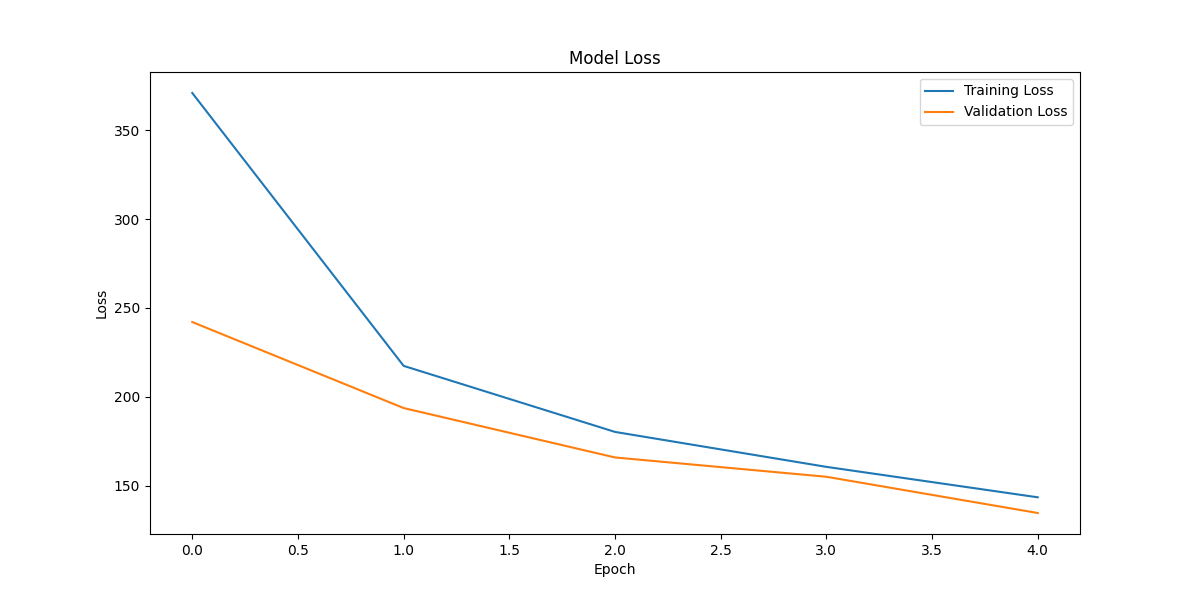
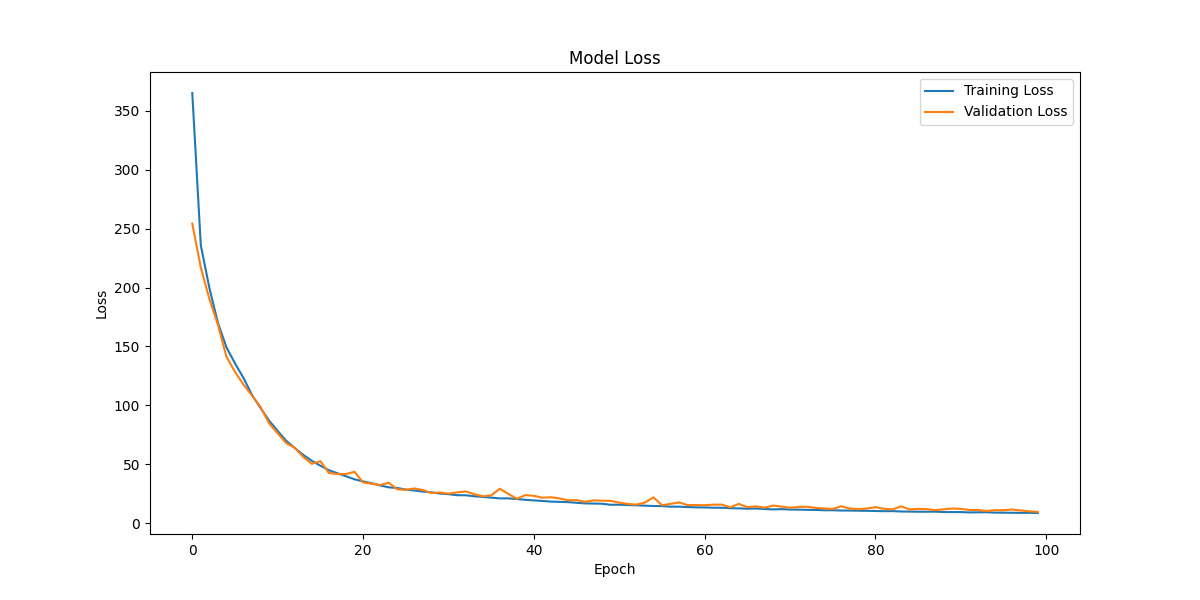
Adding pytorch version

diff --git a/v2/src/trainer_torch.py b/v2/src/trainer_torch.py
@@ -1,0 +1,80 @@
+import torch
+
+from torch.utils.data import TensorDataset, DataLoader
+
+def train_model_torch(model, optimizer, criterion, X_train, y_train, X_test, y_test,
+                        epochs=100, batch_size=32, device=None):
+    
+    #Train the pytorch model
+    if device is None:
+        device = torch.device("cuda" if torch.cuda.is_available() else "cpu")
+    
+    print(f"Using device: {device}")
+
+    model.to(device)
+
+    #Convert numpy arrays to torch tensors
+
+    X_train_t = torch.tensor(X_train, dtype = torch.float32)
+    y_train_t = torch.tensor(y_train, dtype = torch.float32)
+    X_test_t = torch.tensor(X_test, dtype = torch.float32)
+    y_test_t = torch.tensor(y_test, dtype = torch.float32)
+
+    train_loader = DataLoader(TensorDataset(X_train_t, y_train_t), batch_size=batch_size, shuffle=True)
+
+    history = {"train_loss": [], "val_loss": []}
+
+    for epoch in range(epochs):
+        model.train()
+        running_loss = 0.0
+        for X_batch, y_batch in train_loader:
+            X_batch, y_batch = X_batch.to(device), y_batch.to(device)
+
+            optimizer.zero_grad()
+            y_pred = model(X_batch)
+            loss = criterion(y_pred, y_batch)
+            loss.backward()
+            optimizer.step()
+            running_loss += loss.item()
+
+        # Validation loss
+        model.eval()
+        with torch.no_grad():
+            val_preds = model(X_test_t.to(device))
+            val_loss = criterion(val_preds, y_test_t.to(device)).item()
+
+        avg_train_loss = running_loss / len(train_loader)
+        history["train_loss"].append(avg_train_loss)
+        history["val_loss"].append(val_loss)
+
+
+        if (epoch + 1) % 10 == 0 or epoch == 0:
+                print(f"Epoch [{epoch+1}/{epochs}]  Train Loss: {avg_train_loss:.4f}  Val Loss: {val_loss:.4f}")
+
+    print("Training complete")
+    return history
+
+
+def evaluate_model_torch(model, X_test, y_test, criterion, device=None):
+
+    #Evaluate model on test set.
+
+    if device is None:
+        device = torch.device("cuda" if torch.cuda.is_available() else "cpu")
+
+    model.to(device)
+    model.eval()
+
+    X_test_t = torch.tensor(X_test, dtype=torch.float32).to(device)
+    y_test_t = torch.tensor(y_test, dtype=torch.float32).to(device)
+
+    with torch.no_grad():
+        y_pred = model(X_test_t)
+        loss = criterion(y_pred, y_test_t).item()
+
+        mae = torch.mean(torch.abs(y_pred - y_test_t)).item()
+
+    print(f"[Evaluation] Test MSE: {loss:.4f}, MAE: {mae:.4f}")
+    return loss, mae
+
+

diff --git a/v2/feed_forward_main.py b/v2/feed_forward_main.py
@@ -5,10 +5,16 @@ from src.trainer import train_model, evaluate_model
 from src.predictor import predict_and_analyze
 from src.utilis import save_models, result, load_models, ensure_dir
 
+#Torch imports
+import torch
+
+from src.model_builder_torch import build_feed_forward_model_torch
+from src.trainer_torch import train_model_torch, evaluate_model_torch
+
 
 def main():
     parser = argparse.ArgumentParser(description="Feed Forward Neural Network Trainer")
-    parser.add_argument("--mode", choices = ["local", "distributed", "predict"], default="local",
+    parser.add_argument("--mode", choices = ["local", "distributed", "predict","local-torch"], default="local",
                         help = "Training or prediction mode" )
     parser.add_argument("--data", default="datasets/dataset3_10_11.csv",
                         help = "Path to dataset")
@@ -43,6 +49,19 @@ def main():
         model, scaler_X = load_models(args.model_path, args.scaler_path)
         #true_data = load_csv(args.true_data)
         predict_and_analyze(args.true_data, args.input_size, model, scaler_X)
+
+    elif args.mode == "local-torch":
+        print("Running PyTorch FNN ")
+        X_train, X_test, y_train,y_test, scaler_X = load_dataset(args.data, args.input_size)
+        model, optimizer, criterion = build_feed_forward_model_torch( X_train.shape[1], y_train.shape[1], args.learning_rate)
+        history = train_model_torch(model, optimizer, criterion, X_train, y_train, X_test, y_test, epochs=args.epochs, batch_size=args.batch_size)
+        evaluate_model_torch(model, X_test, y_test, criterion)
+        save_models(model, scaler_X, history, "models")
+
+
+    
+
+
 
 
 

diff --git a/v2/src/model_builder_torch.py b/v2/src/model_builder_torch.py
@@ -1,0 +1,27 @@
+import torch
+import torch.nn as nn
+
+class FeedForwardModel(nn.Module):
+    def __init__(self, input_dim, output_dim):
+        super(FeedForwardModel, self).__init__()
+        #Define the layers
+        self.network = nn.Sequential(
+            nn.Linear(input_dim, 64),
+            nn.ReLU(),
+            nn.Linear(64,32),
+            nn.ReLU(),
+            nn.Linear(32,output_dim)
+        )
+
+
+    def forward(self, x):
+        #Define the forward pass
+        return self.network(x)
+
+def build_feed_forward_model_torch(input_dim, output_dim, learning_rate=0.001):
+    #Build model and optimizer
+    model = FeedForwardModel(input_dim, output_dim)
+    optimizer = torch.optim.Adam(model.parameters(), lr = learning_rate)
+    criterion = nn.MSELoss()
+    return model, optimizer, criterion
+

diff --git a/v2/generatedataset.py b/v2/generatedataset.py
@@ -1,6 +1,7 @@
 import os
 import pandas as pd
 from src.dijkstra import Dijkstra
+from src.utilis import ensure_dir
 
 #Can create the whole dataset from  start node to max node
 #Also can create the dataset for specific node number
@@ -13,13 +14,14 @@ def save_dataset(dataset, file_path, append=False):
         df.to_csv(file_path, index=False)
 
 def generatedataset(*args):
-
+    ensure_dir("datasets")
     if len(args) < 0 or len(args) > 3:
         return 0
     elif len(args) == 3:
         start_node = args[0]
         max_node = args[1]
         max_predict_node = args[2]
+
         file_path = f"datasets/dataset{start_node}_{max_node}_{max_predict_node}.csv"
         if os.path.exists(file_path):
             os.remove(file_path)

diff --git a/v2/src/predictor.py b/v2/src/predictor.py
@@ -4,7 +4,7 @@ import numpy as np
 import tensorflow as tf
 import matplotlib.pyplot as plt
 import pandas as pd
-from utilis import ensure_dir
+from src.utilis import ensure_dir
 
 def load_model_and_scalar(model_dir, scaler_path):
     model_dir = "models/feed_forward_model"

diff --git a/v2/gpu.py b/v2/gpu.py
@@ -1,0 +1,3 @@
+import torch
+device = torch.device("cuda" if torch.cuda.is_available() else "cpu")
+print(device)
